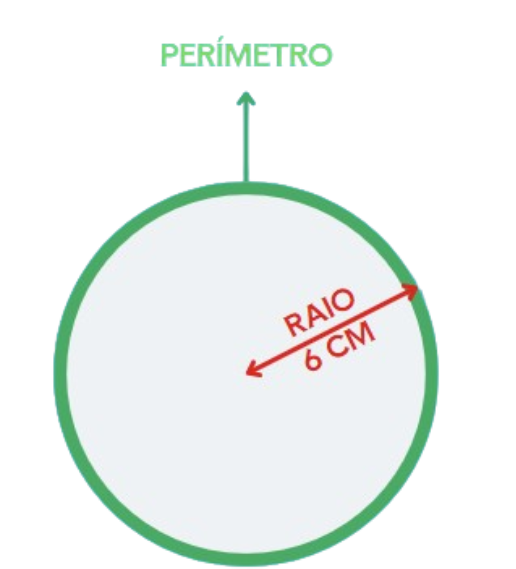
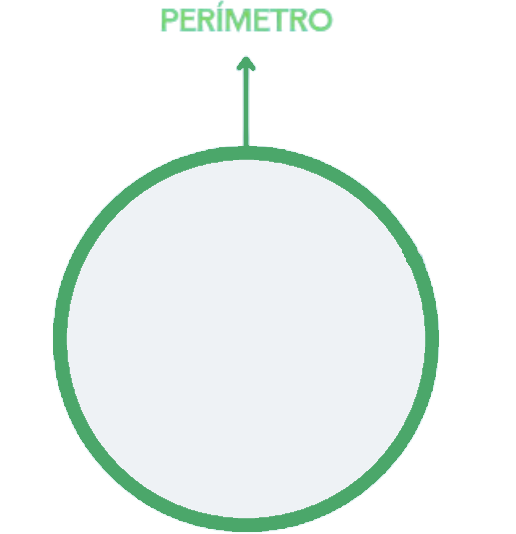
Dica circulo

Changed region(s): [[0.093, 0.0, 0.8682, 1.0]]

diff --git a/Formas/circulo.html b/Formas/circulo.html
@@ -242,7 +242,8 @@
             <h1><strong>Qual é o perímetro de um círculo que tem raio de 4 cm?</strong></h1>
         </div>
         <br><br><br><br><br><br><br>
-        <img src="/Imagens/circulo/ex11_circulo.png" class="center" style="width: 25%;">
+        <img src="/Imagens/dica_geral.png" class="dica" onclick="dica_circulo(this)" id="circulo_m">
+        <img src="/Imagens/circulo/ex11_circulo.png" class="center" style="width: 25%; padding-left: 17%;">
         <br><br><br><br>
         <p id="11.1" class="respostas_estilo" onclick="resposta(this)" style="cursor: pointer;">A) 35 Cm.</p>
         <p id="11.4" class="respostas_estilo" onclick="resposta(this)" style="cursor: pointer;">B) 24 Cm.</p>
@@ -258,7 +259,8 @@
         </div>
 
         <br><br><br><br><br><br><br>
-        <img src="/Imagens/circulo/ex12_circulo.png" class="center" style="width: 25%;">
+        <img src="/Imagens/dica_geral.png" class="dica" onclick="dica_circulo(this)" id="circulo_m">
+        <img src="/Imagens/circulo/ex12_circulo.png" class="center" style="width: 25%; padding-left: 19%;">
         <br><br><br><br>
         <p id="12.4" class="respostas_estilo" onclick="resposta(this)" style="cursor: pointer;">A) 27 cm²</p>
         <p id="12.1" class="respostas_estilo" onclick="resposta(this)" style="cursor: pointer;">B) 45cm²</p>
@@ -272,8 +274,8 @@
         <div class="fundo_laranja">
             <h1><strong>Se o raio de um círculo é 5 cm e o raio de outro círculo é 3 cm, qual dos dois círculos tem o maior perímetro?</strong></h1>
         </div>
-        <br><br><br><br><br><br><br>
-        <img src="/Imagens/circulo/ex13_circulo.png" class="center" style="width: 25%;">
+        <br><br><br><br><br>    
+        <img src="/Imagens/circulo/ex13_circulo.png" class="center" style="width: 55%;">
         <br><br><br><br>
         <p id="13.1" class="respostas_estilo" onclick="resposta(this)" style="cursor: pointer;">A) O círculo com raio de 3 cm tem o maior perímetro</p>
         <p id="13.4" class="respostas_estilo" onclick="resposta(this)" style="cursor: pointer;">B) O círculo com raio de 5 cm tem o maior perímetro</p>

diff --git a/mobile-navbar.js b/mobile-navbar.js
@@ -74,6 +74,7 @@ function confirmar() {
 }
 
 let dica_t = 5;
+let dica_c = 5;
 
 function dica_triangulo(elemento) {
     dica_t -= 1;
@@ -87,6 +88,21 @@ function dica_triangulo(elemento) {
             case "triangulo_m":
                 alert("A fórmula da área do triângulo é Área = (Base x Altura) dividido por 2");
                 alert("Você tem " + dica_t + " dicas restantes")
+                break
+        }
+    } else {
+        alert("Você não tem mais dicas disponíveis");
+    }
+}
+
+function dica_circulo(elemento) {
+    dica_c -= 1;
+    if (dica_c >= 0) {
+        switch (elemento.id) {
+            case "circulo_m":
+                alert("A fórmula do perímetro do círculo é Perímetro = 2 x π x RAIO");
+                alert("Ou Perímetro = 2 x 3 x RAIO");
+                alert("Você tem " + dica_c + " dicas restantes")
                 break
         }
     } else {
